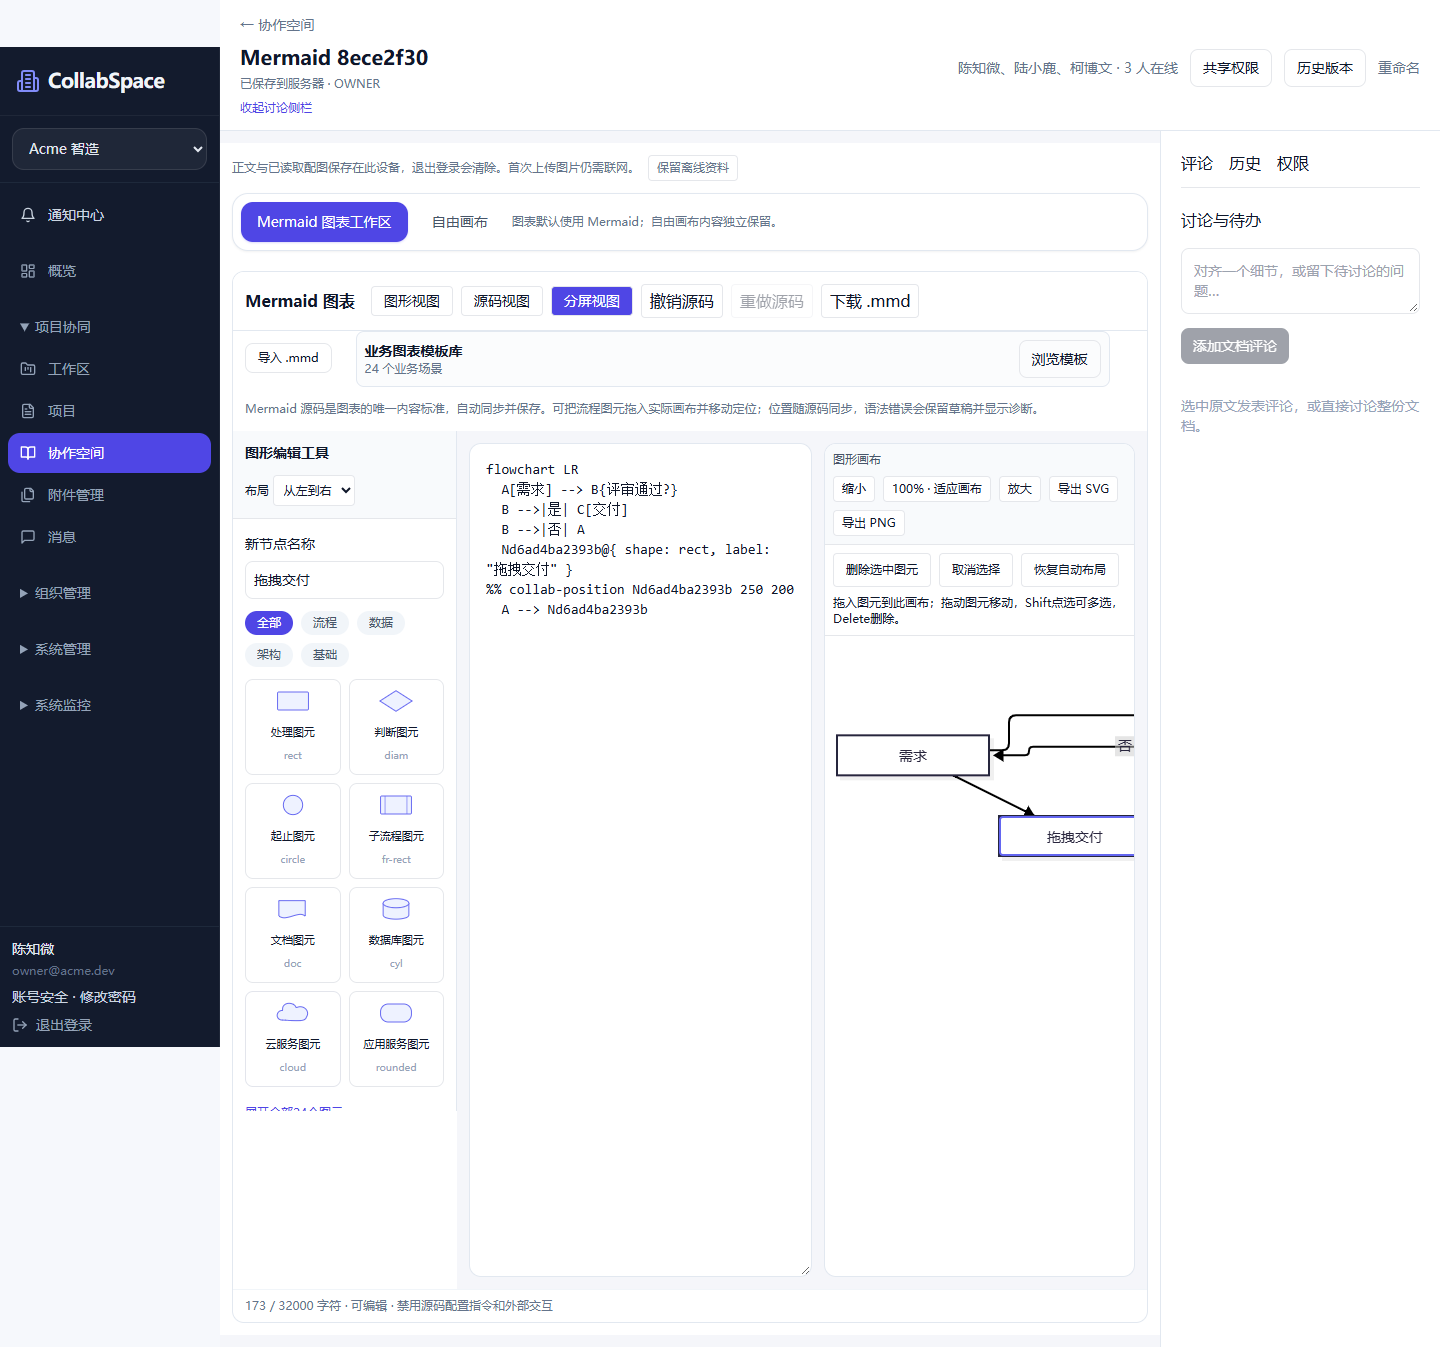
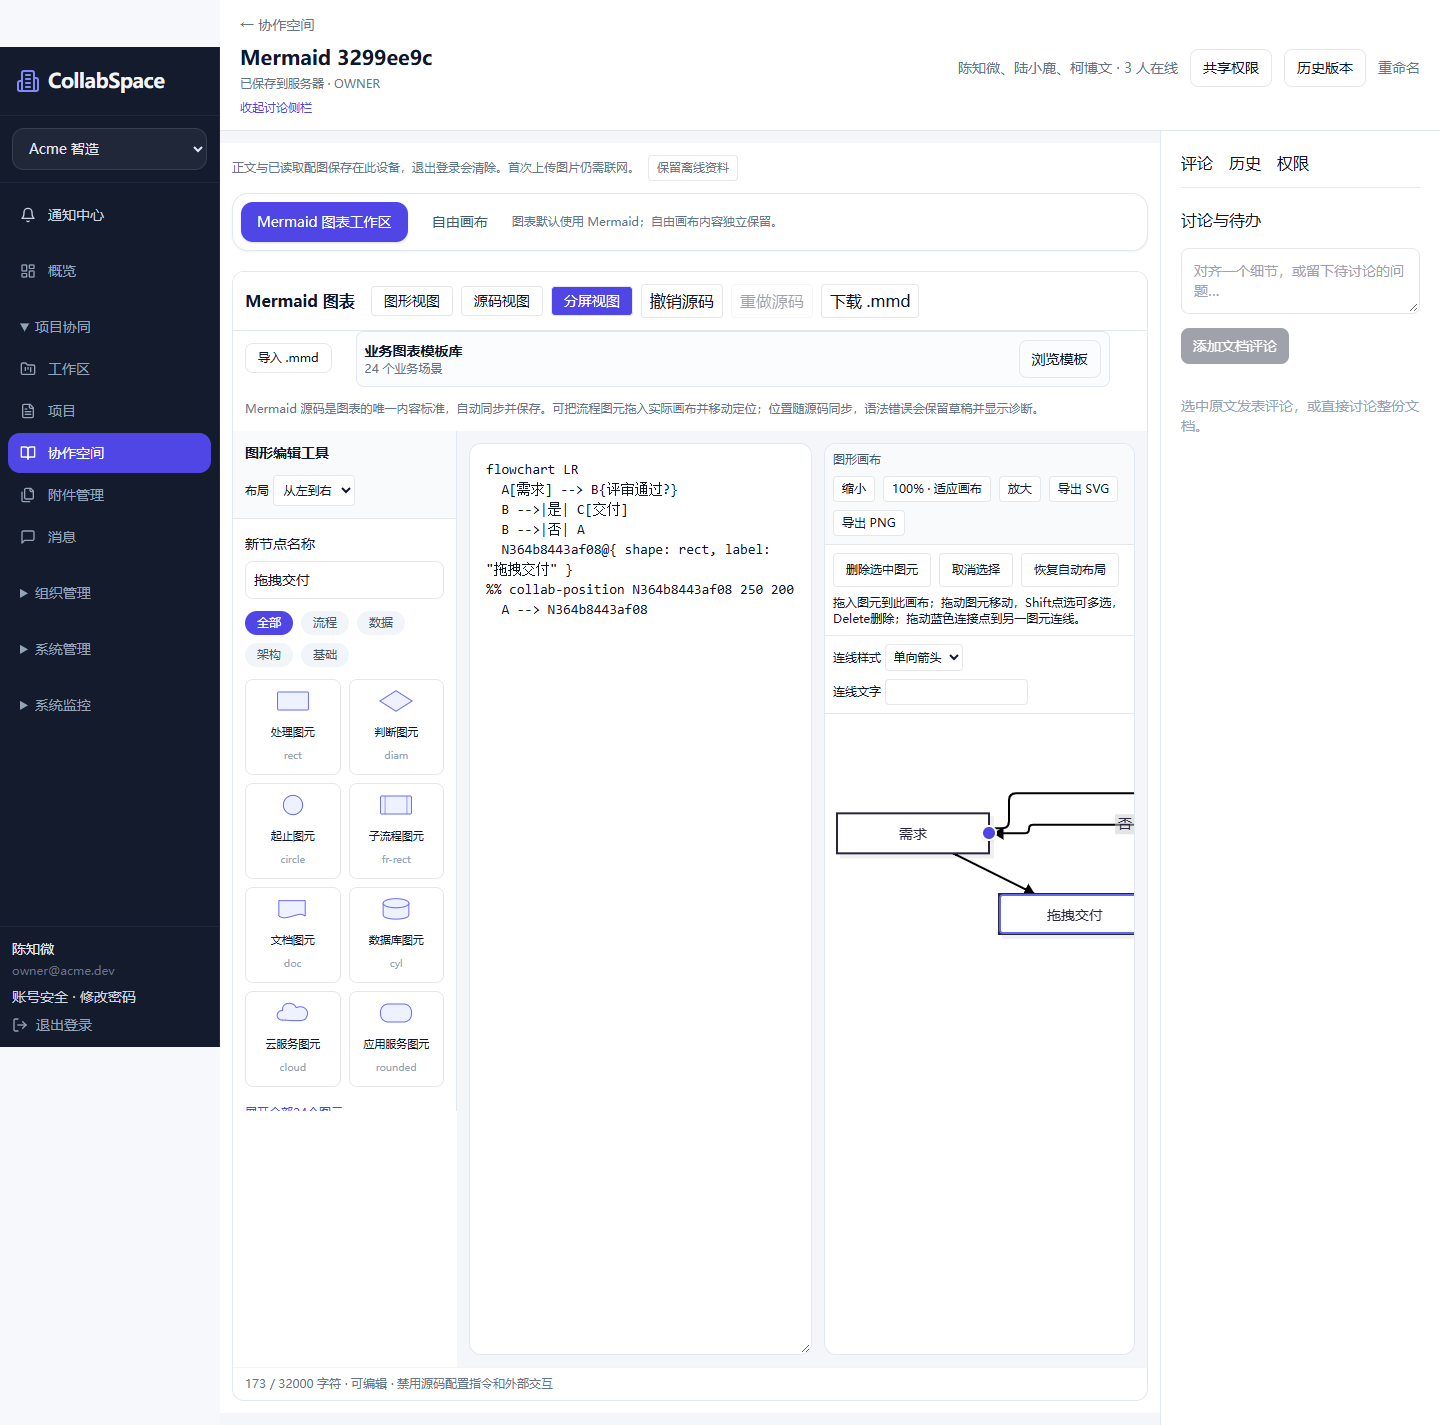
test: accept canvas connector gestures and archive live release evidence

diff --git a/evidence/collaboration/MERMAID-CONNECT-2026-10-26.md b/evidence/collaboration/MERMAID-CONNECT-2026-10-26.md
@@ -1,0 +1,44 @@
+# Mermaid 画布连接点拖线验收
+
+2026-10-26，用户要求普通图元自由移动、画布直接连线。基线64423ab，应用源码3e64a1d；没有后端或数据库变更。
+
+## 实现与契约
+
+蓝色连接点pointer capture，拖到目标节点创建单向/双向/无箭头、虚线或粗线，支持文字。落空、Esc、pointer cancel取消。创建连线时把当前节点坐标写入原Y.Text位置注释，避免新增边引起自动布局移动。沿用原快照并发检查、ACL、持久化ACK、撤销和版本；不放宽iframe sandbox。已定位图中的自环、同向平行边、分组和自定义边仍安全拒绝。
+
+## PASSED
+
+- Web单元测试23/23（覆盖五种连线样式、位置注释保留和非法标签拒绝）；TypeScript noEmit退出0。首次误用根目录typescript路径缺模块，改用apps/web的实际安装路径后通过。
+- 本地Next生产构建38页，日志.test-runs/mermaid-connect-build.log；既有lint警告保留。
+- 发布前服务器04:34北京时间：可用内存1680MiB、磁盘8.9GiB/85%、API75.87MiB/384MiB、CPU0.13%、OOM=false、restart0、DB/Redis up。无迁移需要。
+
+## 正式验收范围
+
+真实鼠标连接点拖线、50%缩放、Esc、样式文字、现有位置保留、双编辑ACK、刷新、撤销重做、重复方向拒绝、Viewer无连接点，及原Mermaid回归。实际结果见下节。
+
+## NOT_RUN
+
+Safari/Firefox、移动触屏、任意复杂Mermaid源码自由几何编辑。旧本地生产服务启动审批阻塞见前次报告；本轮未重新启动该服务。没有真实邮件/模型调用，没有付费资源开通。
+
+## 发布身份
+
+前端r20261026-02，应用源码3e64a1d，126文件快照SHA256 8c64e6cc9221e345ded49ee3b2d404197d20db4b713cd234d5afdefbb45d929d。
+Vercel dpl_9ApApzADSftDrMha8xKY55dovWXg，https://collabspace-n72hltf1q-purelamp.vercel.app；构建2分22秒，inspect Ready后promote成功。回退为前次r01 dpl_49sw1YognkLsUSiUkcpNt1ofFUCj。
+API镜像fd64a9f保持，未重启API/WS/Office，不做数据库迁移。04:40抽样：可用1654MiB、磁盘8.9GiB/85%、API76.54MiB/384MiB、CPU4.71%、OOM=false/restart0，DB/Redis up。此为验收期间抽样，非长期压测。
+
+## 验收过程
+
+第一次线上脚本在纯图形视图读取已卸载的本页源码textarea，等待未完成；已按进程归属结束该次测试，未计通过。改读第二位编辑者的真实源码并保留全部断言，重新执行完整4项。
+最终运行目录.test-runs/mermaid-connect-online-final，日志.test-runs/mermaid-connect-online-final.log。第一项已通过（1.6分钟），合成文档f32c9565-2e77-4395-86e0-4a0e24e9c4ad：实际连接点拖线、空白/Esc取消、自连拒绝、50%缩放带文字虚线、坐标保留、双编辑保存/刷新、撤销重做、重复方向拒绝、移动边跟随、局部删除/多删、Viewer无连接点、SVG导出。
+
+## 最终结果：PASSED
+
+正式4/4通过，共4.7分钟；.last-run.json status=passed、failedTests=[]。第二项25.4秒：空画布缩放/撤销重做/自动布局/自环拒绝/反向边标签/源码上限；第三项2.1分钟：官方多类型、双编辑、只读、离线、诊断、安全拒绝及重载；第四项28.3秒：定位历史预览和新私有副本恢复，原协作者不能访问副本。
+
+既有中文演示白板只读检查通过：4个连接点、官方SVG与中文节点渲染，截图mermaid-connect-online-demo.png已人工视觉检查。演示：https://collabspace.purelamp.uk/projects/cmvg1shjj001w55oco1ou87o3/documents/f4752774-d481-49a8-a5f9-f84c6870de05。
+
+运行命令：`node --test apps/web/tests/*.test.cjs`（23/23）；`node apps/web/node_modules/typescript/bin/tsc --noEmit -p apps/web/tsconfig.json`；在apps/web使用NEXT_DIST_DIR=.next-mermaid-connect执行实际next build（38页）。正式浏览器使用既有私有COLLAB_BROWSER_CONFIG、COLLAB_ACCEPTANCE_PROXY和MERMAID_POSITION_ONLINE=1执行`node node_modules/@playwright/test/cli.js test tests/browser/mermaid-position.spec.cjs tests/browser/mermaid.spec.cjs --config playwright.config.cjs --reporter=list --output=.test-runs/mermaid-connect-online-final`。实际Node22.20.0绝对路径，未修改全局环境。
+
+## 归档
+
+应用3e64a1d；补充测试和证据随主分支归档，标签collabspace-20261026-mermaid-connect，Git压缩包及SHA256在.test-runs/archives。未提交私有凭据/测试数据库/依赖。此前接力已删除，本轮无需新增定时任务；收尾时5小时剩余16%，未触发10%条件。

diff --git a/README.md b/README.md
@@ -1,5 +1,7 @@
 # CollabSpace — 多人实时协作文档
 
+2026-10-26追加：画布蓝色连接点可直接拖到另一图元连线，支持箭头样式/文字、取消、位置保留及多人同步；[契约](docs/collaboration/MERMAID-POSITION.md)、[实际验收](evidence/collaboration/MERMAID-CONNECT-2026-10-26.md)。
+
 2026-10-26：Mermaid实际画布拖入/移动、位置保存与局部删除已上线，正式4/4验收通过；[中文演示白板](https://collabspace.purelamp.uk/projects/cmvg1shjj001w55oco1ou87o3/documents/f4752774-d481-49a8-a5f9-f84c6870de05)、[范围](docs/collaboration/MERMAID-POSITION.md)、[验收发布](evidence/collaboration/MERMAID-POSITION-2026-10-25.md)。复杂结构自由定位仍明确限制，原图不被擅自覆盖。
 
 2026-10-25：IM/助手功能入口按钮化，隐藏未提供功能的占位项；[范围与规范](docs/collaboration/ACTION-UI.md)、[测试与发布](evidence/collaboration/ACTION-UI-2026-10-25.md)。

diff --git a/docs/collaboration/MERMAID-POSITION-HANDOFF.md b/docs/collaboration/MERMAID-POSITION-HANDOFF.md
@@ -1,5 +1,7 @@
 # Mermaid 画布定位修复交接
 
+2026-10-26后续直接连线已完成：应用3e64a1d，r20261026-02，Vercel dpl_9ApApzADSftDrMha8xKY55dovWXg，正式4/4、Web23/23、生产构建38页通过。见[拖线验收](../../evidence/collaboration/MERMAID-CONNECT-2026-10-26.md)，标签collabspace-20261026-mermaid-connect。下文r01为前次发布，可回退。
+
 ## 已完成：2026-10-26正式发布
 
 本次接力已完成，勿重复启动。应用源码eb7966f，Vercel dpl_49sw1YognkLsUSiUkcpNt1ofFUCj，r20261026-01；正式4/4通过（3.6分钟），本地Web22项、38页生产构建通过。详见../../evidence/collaboration/MERMAID-POSITION-2026-10-25.md，中文演示链接在报告中。API/数据库未改；原r08部署保留回退。最终归档标签collabspace-20261026-mermaid。下面是历史交接资料，不是仍待执行清单。
